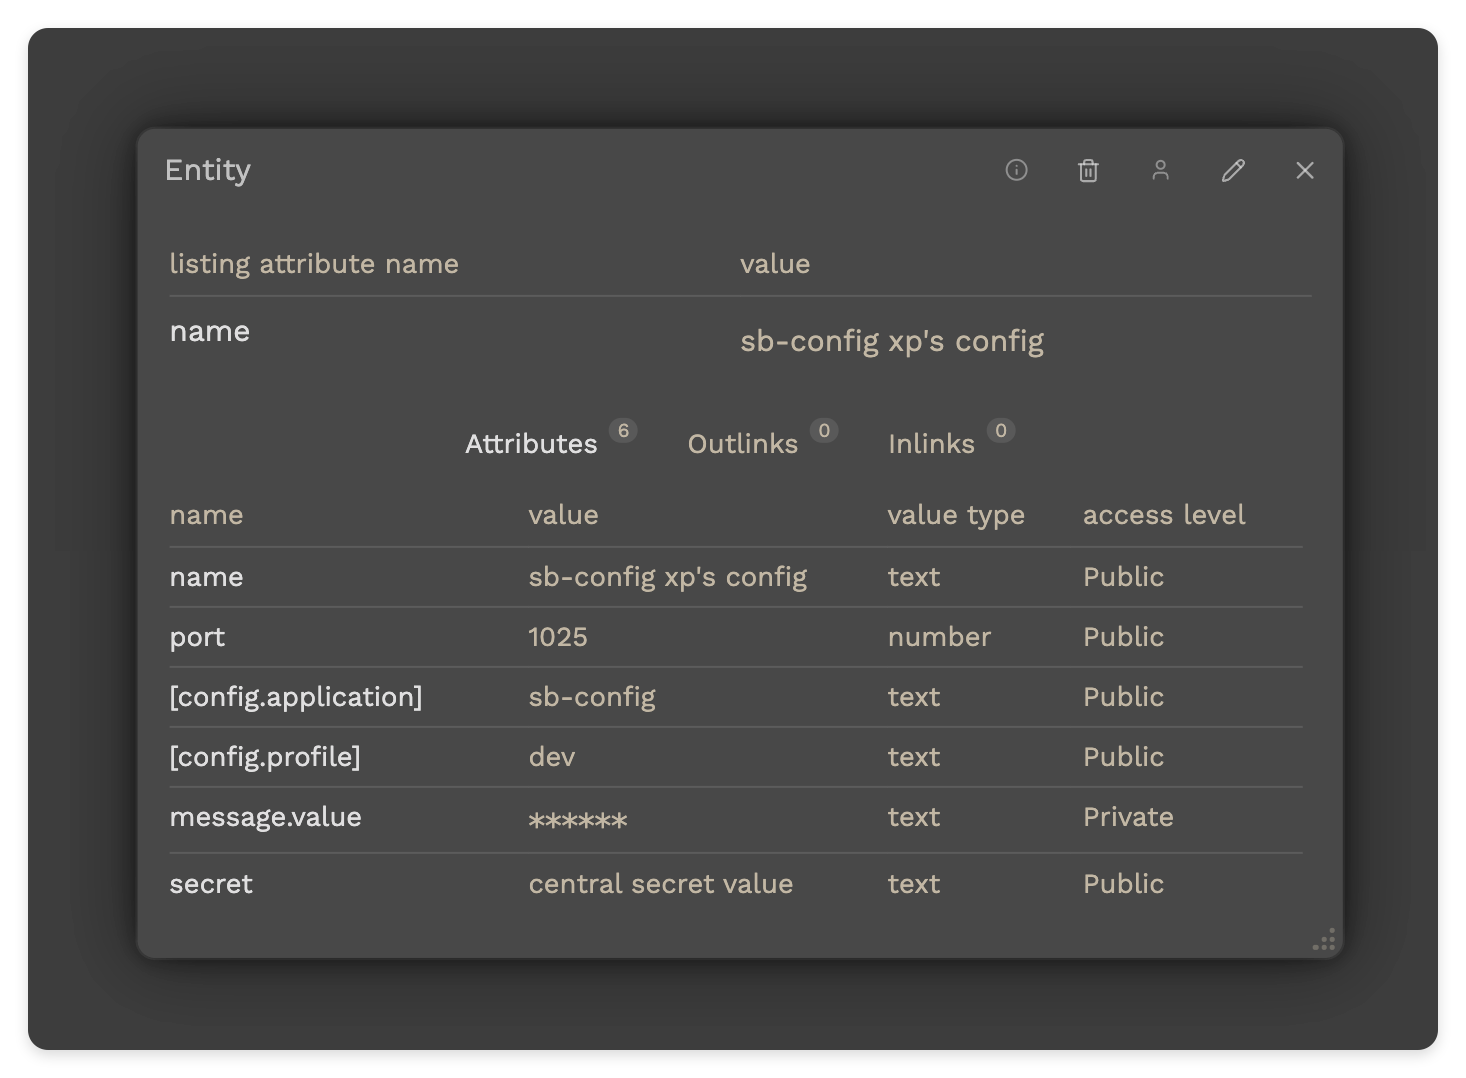
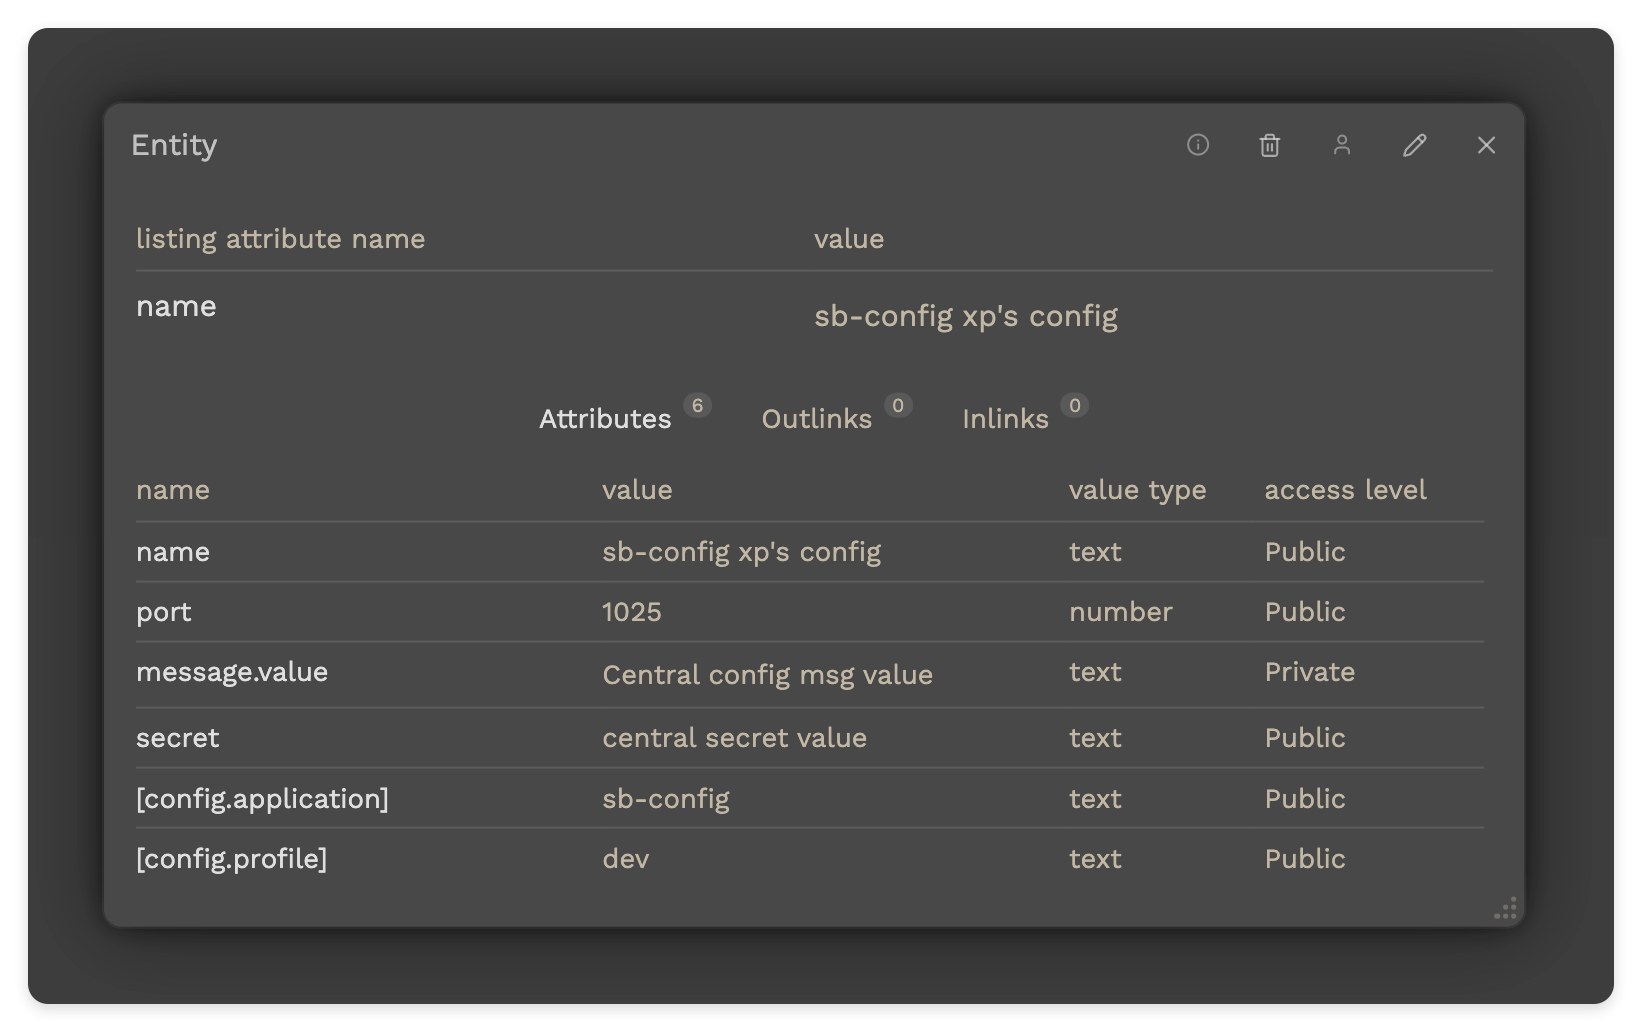
chore: show (non-public) attr value w/ same font size; doc entity img upd

diff --git a/frontend/web/src/styles.css b/frontend/web/src/styles.css
@@ -2041,13 +2041,6 @@ button.data-explorer-view-copy:hover {
 	white-space: nowrap;
 }
 
-.entity-attribute-value-view-sensitive .entity-attribute-value-text {
-	font-family:
-		ui-monospace, SFMono-Regular, Menlo, Monaco, Consolas,
-		'Liberation Mono', 'Courier New', monospace;
-	letter-spacing: 0;
-}
-
 .entity-attribute-value-actions {
 	align-items: center;
 	display: inline-flex;